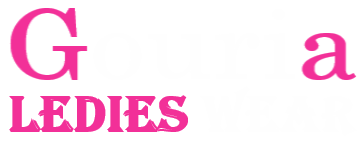
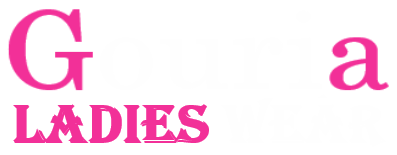
admin_panel

Changed region(s): [[0.0, 0.6479, 0.547, 0.9296], [0.0, 0.0563, 0.2431, 0.5915], [0.8204, 0.2254, 1.0, 0.5915]]

diff --git a/style.css b/style.css
@@ -1,3 +1,8 @@
+*{
+margin: 0;
+padding: 0;
+box-sizing: border-box;
+}
 .logo{
     width: 6%;
     height: 6%;   
@@ -10,3 +15,8 @@
     height: 200px;
     object-fit: contain;    
 }
+/*.admin_image{
+    width: 100px;
+    object-fit: contain;
+
+}*/

diff --git a/admin_area/index.php b/admin_area/index.php
@@ -1,0 +1,68 @@
+<!DOCTYPE html>
+<html lang="en">
+<head>
+    <meta charset="UTF-8">
+    <meta name="viewport" content="width=device-width, initial-scale=1.0">
+    <title>Admin Dashboard</title>
+    <!-- bootstrap css link-->
+    <link href="https://cdn.jsdelivr.net/npm/bootstrap@5.1.3/dist/css/bootstrap.min.css" rel="stylesheet" integrity="sha384-1BmE4kWBq78iYhFldvKuhfTAU6auU8tT94WrHftjDbrCEXSU1oBoqyl2QvZ6jIW3" crossorigin="anonymous">
+    <!-- css file link-->
+    <link rel="stylesheet" href="../style.css">
+    <style>
+    .admin_image{
+    width: 100px;
+    height: 100px;
+    object-fit: contain;
+    }
+    </style>
+</head>
+<body>
+<!-- nav bar -->
+<div class="container-fluid p-0">
+    <!-- First Child -->
+    <nav class="navbar navbar-expand-lg navbar-light bg-info">
+        <div class="container-fluid">
+            <img src="../images/1144.png" alt="" class="logo">
+            <nav class="navbar navbar-expand-lg">
+                <ul class="navbar-nav">
+                    <li class="nav-item">
+                        <a href="" class="nav-link">WelCome Priyanka</a>
+                    </li>
+                </ul>
+            </nav>
+        </div>
+    </nav>
+
+<!-- Second Child -->
+<div class="bg-light">
+    <h3 class="text-center p-2">Manage Details</h3>
+</div>
+
+<!-- third Child -->
+<div class="row">
+    <div class="col-md-12 bg-secondary p-1 d-flex align-items-center">
+        <div class="px-5">
+            <a href="#"><img src="../images/floorpot.png" alt="" class="admin_image"></a>
+            <p class="text-light text-center">Admin Name</p>
+        </div>
+        <!-- buttom*10>a.nav-link.text-light.bg-info.my-1-->
+        <div class="button text-center">
+        <button><a href="" class="nav-link text-light bg-info my-1">Insert Products</a></button>
+        <button><a href="" class="nav-link text-light bg-info my-1">View Products</a></button>
+        <button><a href="" class="nav-link text-light bg-info my-1">Insert Categories</a></button>
+        <button><a href="" class="nav-link text-light bg-info my-1">View Categories</a></button>
+        <button><a href="" class="nav-link text-light bg-info my-1">Insert Brands</a></button>
+        <button><a href="" class="nav-link text-light bg-info my-1">View Brands</a></button>
+        <button><a href="" class="nav-link text-light bg-info my-1">All Orders</a></button>
+        <button><a href="" class="nav-link text-light bg-info my-1">All Payments</a></button>
+        <button><a href="" class="nav-link text-light bg-info my-1">List Users</a></button>
+        <button><a href="" class="nav-link text-light bg-info my-1">Logout</a></button>
+        </div>
+    </div>
+</div>
+</div>
+
+<!-- bootstrap js link-->
+<script src="https://cdn.jsdelivr.net/npm/bootstrap@5.1.3/dist/js/bootstrap.bundle.min.js" integrity="sha384-ka7Sk0Gln4gmtz2MlQnikT1wXgYsOg+OMhuP+IlRH9sENBO0LRn5q+8nbTov4+1p" crossorigin="anonymous"></script>
+</body>
+</html>

diff --git a/index.php b/index.php
@@ -72,7 +72,7 @@
 
 <!-- Third child -->
 <div class="bg-light">
-    <h3 class="text-center">Gouria Ledies Wear</h3>
+    <h3 class="text-center">Gouria Ladies Wear</h3>
     <p class="text-center">We know your choice</p>
 </div>
 
@@ -153,6 +153,7 @@
     </div>
     <!-- Side nav -->
     <div class="col-md-2 bg-secondary p-0">
+      <!-- Brands to Displayed-->
     <ul class="navbar-nav me-auto text-center">
     <li class="nav-item bg-info">
       <a href="" class="nav-link text-light"><h4>Delivery Brands</h4></a>
@@ -171,6 +172,27 @@
     </li>
     <li class="nav-item">
       <a href="" class="nav-link text-light">Brand 5</a>
+    </li>
+    </ul>
+        <!-- Categories to Displayed-->
+    <ul class="navbar-nav me-auto text-center">
+    <li class="nav-item bg-info">
+      <a href="" class="nav-link text-light"><h4>Categories</h4></a>
+    </li>
+    <li class="nav-item">
+      <a href="" class="nav-link text-light">Categories 1</a>
+    </li>
+    <li class="nav-item">
+      <a href="" class="nav-link text-light">Categories 2</a>
+    </li>
+    <li class="nav-item">
+      <a href="" class="nav-link text-light">Categories 3</a>
+    </li>
+    <li class="nav-item">
+      <a href="" class="nav-link text-light">Categories 4</a>
+    </li>
+    <li class="nav-item">
+      <a href="" class="nav-link text-light">Categories 5</a>
     </li>
 
 
